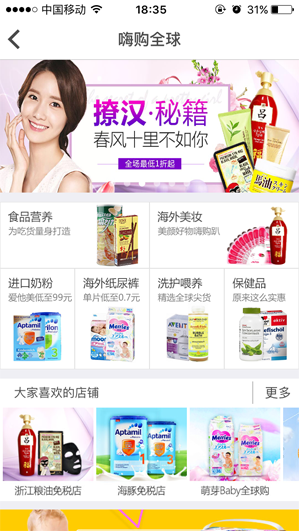
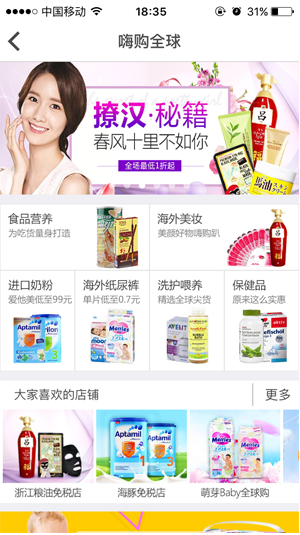
modify lunbo

diff --git a/htmlpc/index-lunbo.html b/htmlpc/index-lunbo.html
@@ -1,0 +1,211 @@
+<!doctype html>
+<html>
+<head>
+<meta charset="utf-8">
+<title>首页</title>
+<link rel="stylesheet" href="http://p0.qinqinbaby.com/Resource/Css/common/common.css" />
+<!-- <link rel="stylesheet" href="http://p0.qinqinbaby.com/Resource/Css/home/newindex.css?v=1" /> -->
+<link rel="stylesheet" href="../dest/css/newindex.css" />
+<style>
+.homenew .sec_main .inner .iphone{overflow: hidden;}
+.homenew .sec_main .inner .iphone .inner{width: 300px;height: 535px;overflow: hidden;margin: 103px 0 0 32px;background: #fff;}
+.homenew .sec_main .inner .iphone ul {width: 1503px;margin: 0;background: #fff;position: relative;}
+.homenew .sec_main .inner .iphone ul li{position: relative;float: left;z-index: 9999;display: block;}
+
+</style>
+
+</head>
+
+<body>
+<div class="homenew">
+ 
+    <!-- 头部 1190 -->
+    <div class="sec_header cl">
+        <h1 class="fl logo"><a href="" target="_blank;"><img src="http://p0.qinqinbaby.com/Resource/Images/home/indexnew/logo.png" alt=""></a></h1>
+        <div class="sec_search fr">
+            <div class="tp cl">
+                <input type="text" class="fl">
+                <a href="javascript:;" class="fr btn">搜&nbsp;索</a>
+            </div>
+            <div class="btm">
+                <a href="" target="_blank" class="first active">荷兰牛栏</a>
+                <a href="" target="_blank">荷兰牛栏</a>
+                <a href="" target="_blank">荷兰牛栏</a>
+            </div>
+        </div>
+    </div>
+    <!-- nav   subnav在其它页面附加上这个类名-->
+    <div class="nav">
+        <div class="inner">
+            <a href="" target="_blank" class="active">首页</a>
+            <a href="" target="_blank" class="">6.1儿童节</a>
+            <a href="http://www.qinqinbaby.com/home/index/investment" target="_blank" class="">招商入驻</a>
+        </div>
+        
+    </div>
+    <!-- 主区 -->
+    <div class="sec_main">
+        <div class="inner cl">
+            <div class="fl iphone" id="slidimg">
+                <div class="inner">
+                    <ul style="position:relative;" class="cl">
+                    <li class="active"><img src="http://p0.qinqinbaby.com/Resource/Images/home/indexnew/slide1.png?v=1" alt=""></li>
+                    <li><img src="http://p0.qinqinbaby.com/Resource/Images/home/indexnew/slide2.png?v=1" alt=""></li>
+                    <li><img src="http://p0.qinqinbaby.com/Resource/Images/home/indexnew/slide3.png?v=1" alt=""></li>
+                    <li><img src="http://p0.qinqinbaby.com/Resource/Images/home/indexnew/slide4.png?v=1" alt=""></li>
+                    <li><img src="http://p0.qinqinbaby.com/Resource/Images/home/indexnew/slide5.png?v=1" alt=""></li>
+                </ul>
+                </div>
+                
+            </div>
+            <div class="fr iphonemsg">
+                <div class="tp">
+                    <div class="words"></div>
+                    <div class="ewm"></div>
+                </div>
+                <div class="md">
+                    <img class="op" src="http://p0.qinqinbaby.com/Resource/Images/home/indexnew/a.png" alt="">
+                </div>
+                <ul class="btm cl" id="slidtext">
+                    <li class="fl active">
+                        <div class="sec_tp">我家<br>附近</div>
+                        <div class="sec_btm">
+                            <div class="line"></div>
+                            <h2>我家附近</h2>
+                            <p>啥都有</p>
+                        </div>
+                    </li>
+                    <li class="fl">
+                        <div class="sec_tp">嗨购<br>全球</div>
+                        <div class="sec_btm">
+                            <div class="line"></div>
+                            <h2>海淘</h2>
+                            <p>购全球</p>
+                        </div>
+                    </li>
+                    <li class="fl">
+                        <div class="sec_tp">每周<br>大牌</div>
+                        <div class="sec_btm ">
+                            <div class="line"></div>
+                            <h2>每周大牌</h2>
+                            <p>品牌旗舰</p>
+                        </div>
+                    </li>
+                    <li class="fl">
+                        <div class="sec_tp">百万<br>红包</div>
+                        <div class="sec_btm">
+                            <div class="line"></div>
+                            <h2>拿去花</h2>
+                            <p>百万红包等你拿</p>
+                        </div>
+                    </li>
+                    <li class="fl">
+                        <div class="sec_tp">育儿<br>生活</div>
+                        <div class="sec_btm">
+                            <div class="line"></div>
+                            <h2>百科</h2>
+                            <p>生活育儿</p>
+                        </div>
+                    </li>
+                </ul>
+            </div>
+        </div>
+    </div>
+    <!-- 承诺 -->
+    <div class="sec_promise">
+        <ul class="tp cl">
+            <li class="fl">
+                <a href="http://www.qinqinbaby.com/home/footer/thsm.html" target="_blank"><img src="http://p0.qinqinbaby.com/Resource/Images/home/indexnew/promis1.png" alt=""></a>
+                <p>超时赔付 </p>
+            </li>
+            <li class="fl">
+                <a href="http://www.qinqinbaby.com/home/footer/thsm.html" target="_blank"><img src="http://p0.qinqinbaby.com/Resource/Images/home/indexnew/promis2.png" alt=""></a>
+                <p>闪电退款</p>
+            </li>
+            <li class="fl">
+                <a href="http://www.qinqinbaby.com/home/footer/thsm.html" target="_blank"><img src="http://p0.qinqinbaby.com/Resource/Images/home/indexnew/promis3.png" alt=""></a>
+                <p>正品保证</p>
+            </li>
+        </ul>
+        <div class="btm"></div>
+    </div>
+</div>
+</body>
+</html>
+<script type="text/javascript" src="http://s0.qinqinbaby.com/Resource/Js/common/jquery-1.8.3.min.js"></script>
+
+<script>
+    
+        // var vnum=0;
+        // var vtimer=null;
+
+        // //大图轮播
+        // var realindex=0;
+        // $("#slidtext li").mouseover(function(){
+        //     clearInterval(vtimer);
+
+
+        //     $(this).addClass("active").siblings().removeClass("active");
+        //     autoPlay();
+        //     vnum=$(this).index();
+    
+        //     $("#slidimg li").each(function(index){
+        //         if(vnum == index){
+        //             $(this).fadeIn().siblings().fadeOut();
+        //         }
+        //     })
+        // })
+        // autoPlay();
+        // function autoPlay(){
+        //     vtimer=setInterval(function(){
+        //         clearInterval(vtimer);
+        //         vnum++;
+        //         if(vnum>=$("#slidimg li").length){
+        //             vnum=0;
+        //         }
+        //         $("#slidtext li").eq(vnum).addClass("active").siblings().removeClass("active");
+
+        //         $("#slidimg li").eq(vnum).fadeIn().siblings().fadeOut();
+        //     },3500);
+        // }
+        // 
+
+
+        var vnum=0;
+        var vtimer=null;
+        var vgo=0;
+        //大图轮播
+        var realindex=0;
+        $("#slidtext li").mouseover(function(){
+            // alert(1)
+            clearInterval(vtimer); 
+            $(this).addClass("active").siblings().removeClass("active");
+            vnum=$(this).index();
+            vgo=300*vnum
+
+    
+         $("#slidimg ul").stop().animate({left: -vgo}, 'normal');
+})
+         $("#slidtext").mouseout(function(){
+                autoPlay();
+         })
+        autoPlay();
+        function autoPlay(){
+            vtimer=setInterval(function(){
+
+                vnum++;
+                if(vnum>=$("#slidimg li").length){
+                    vnum=0;
+                }
+                vgo=300*vnum
+                $("#slidtext li").eq(vnum).addClass("active").siblings().removeClass("active");
+
+               $("#slidimg ul").stop().animate({left: -vgo}, 'normal');
+            },1500);
+        }     
+        // 
+        //    
+        //       
+      
+</script>
+

diff --git a/htmlpc/index-opacity.html b/htmlpc/index-opacity.html
@@ -39,8 +39,8 @@
     <!-- 主区 -->
     <div class="sec_main">
         <div class="inner cl">
-            <div class="fl iphone">
-                <ul>
+            <div class="fl iphone" id="slidimg">
+                <ul style="position:relative">
                     <li class="active"><img src="http://p0.qinqinbaby.com/Resource/Images/home/indexnew/slide1.png" alt=""></li>
                     <li><img src="http://p0.qinqinbaby.com/Resource/Images/home/indexnew/slide2.png" alt=""></li>
                     <li><img src="http://p0.qinqinbaby.com/Resource/Images/home/indexnew/slide3.png" alt=""></li>
@@ -56,7 +56,7 @@
                 <div class="md">
                     <img class="op" src="http://p0.qinqinbaby.com/Resource/Images/home/indexnew/a.png" alt="">
                 </div>
-                <ul class="btm cl">
+                <ul class="btm cl" id="slidtext">
                     <li class="fl active">
                         <div class="sec_tp">我家<br>附近</div>
                         <div class="sec_btm">
@@ -97,7 +97,6 @@
                             <p>生活育儿</p>
                         </div>
                     </li>
-                   
                 </ul>
             </div>
         </div>
@@ -127,34 +126,72 @@
 
 <script>
     
+        // var vnum=0;
+        // var vtimer=null;
+
+        // //大图轮播
+        // var realindex=0;
+        // $("#slidtext li").mouseover(function(){
+        //     clearInterval(vtimer);
+
+
+        //     $(this).addClass("active").siblings().removeClass("active");
+        //     autoPlay();
+        //     vnum=$(this).index();
+    
+        //     $("#slidimg li").each(function(index){
+        //         if(vnum == index){
+        //             $(this).fadeIn().siblings().fadeOut();
+        //         }
+        //     })
+        // })
+        // autoPlay();
+        // function autoPlay(){
+        //     vtimer=setInterval(function(){
+        //         clearInterval(vtimer);
+        //         vnum++;
+        //         if(vnum>=$("#slidimg li").length){
+        //             vnum=0;
+        //         }
+        //         $("#slidtext li").eq(vnum).addClass("active").siblings().removeClass("active");
+
+        //         $("#slidimg li").eq(vnum).fadeIn().siblings().fadeOut();
+        //     },3500);
+        // }
+        // 
+
+
         var vnum=0;
         var vtimer=null;
-
         //大图轮播
         var realindex=0;
-        $(".homenew .sec_main .inner .iphonemsg .btm li").mouseover(function(){
-            clearInterval(vtimer);
-
+        $("#slidtext li").mouseover(function(){
+            // alert(1)
+            clearInterval(vtimer); 
             $(this).addClass("active").siblings().removeClass("active");
-            autoPlay();
             vnum=$(this).index();
     
-            $(".homenew .sec_main .inner .iphone ul li").each(function(index){
+            $("#slidimg li").each(function(index){
                 if(vnum == index){
                     $(this).fadeIn().siblings().fadeOut();
                 }
             })
-        })
+        });
+         $("#slidtext").mouseout(function(){
+                autoPlay();
+         })
         autoPlay();
         function autoPlay(){
             vtimer=setInterval(function(){
+
                 vnum++;
-                if(vnum>=$(".homenew .sec_main .inner .iphone ul li").length){
+                if(vnum>=$("#slidimg li").length){
                     vnum=0;
                 }
-                $(".homenew .sec_main .inner .iphonemsg .btm li").eq(vnum).addClass("active").siblings().removeClass("active");
+                $("#slidtext li").eq(vnum).addClass("active").siblings().removeClass("active");
 
-                $(".homenew .sec_main .inner .iphone ul li").eq(vnum).fadeIn().siblings().fadeOut();
-            },3500);}
+                $("#slidimg li").eq(vnum).fadeIn().siblings().fadeOut();
+            },1500);
+        }        
 </script>
 
